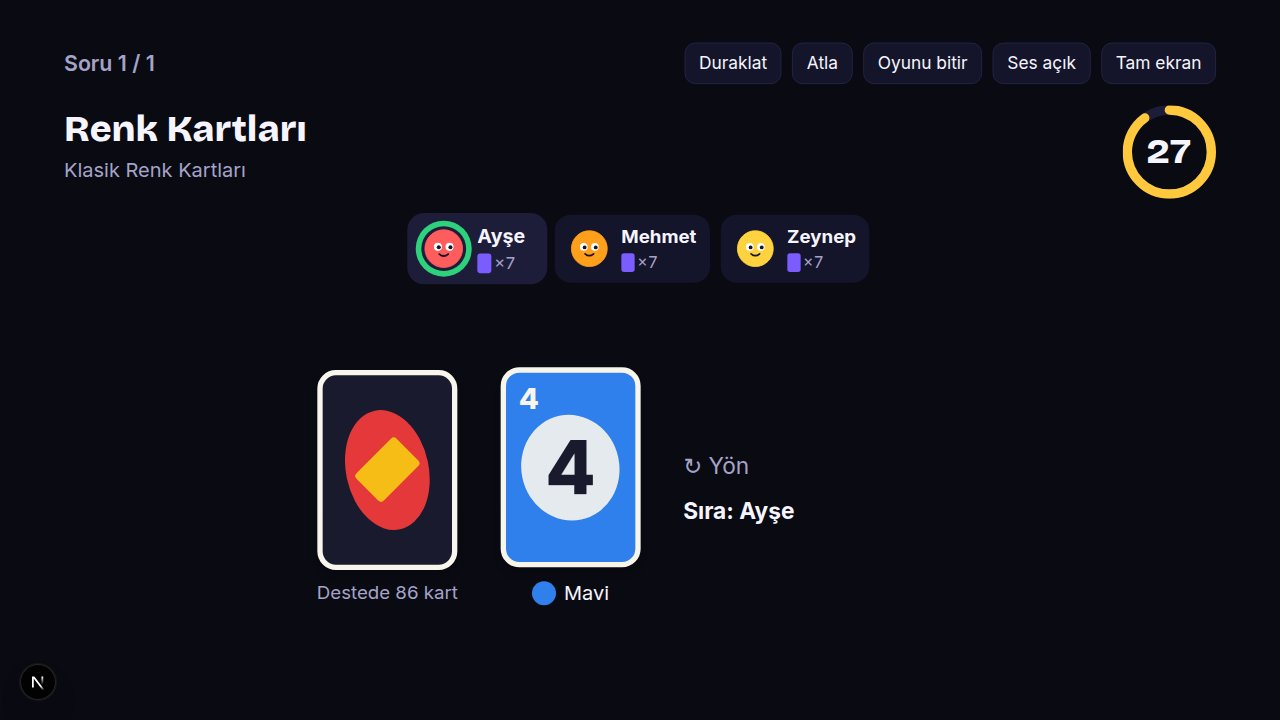
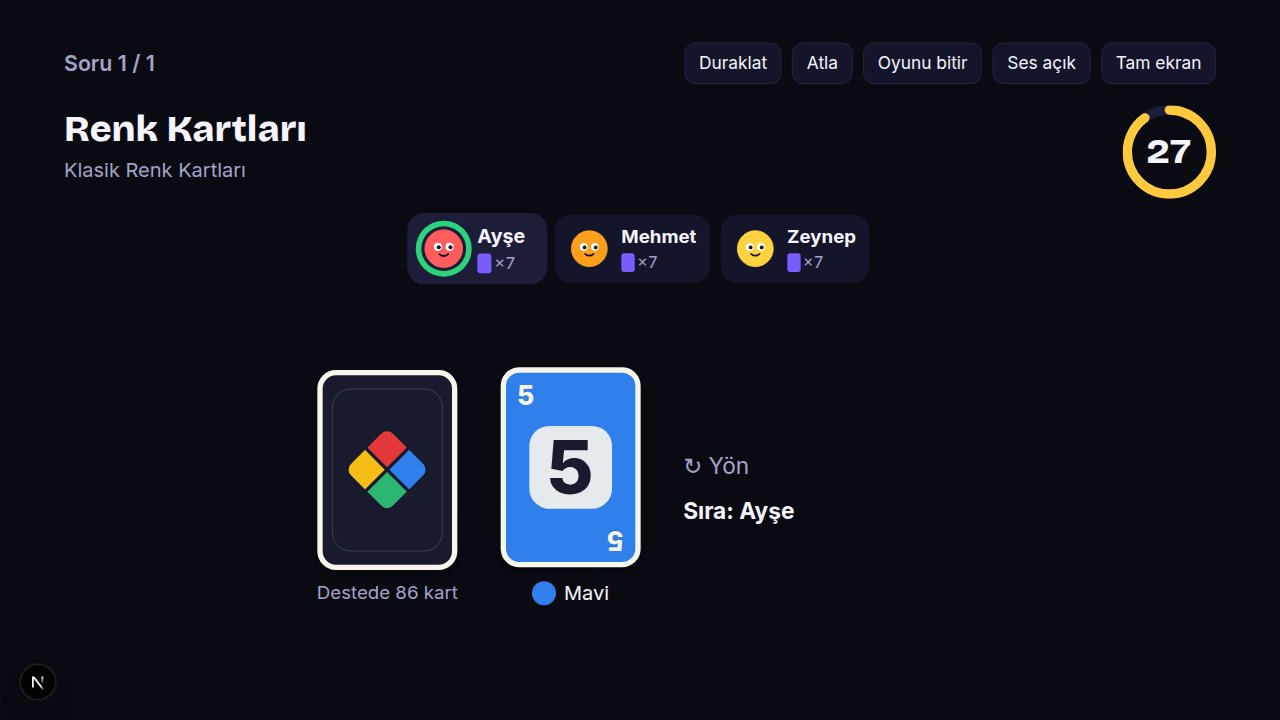
feat(uno): original card face and back
The tilted oval on the face and the red oval on the back resembled UNO's trade dress. The
face now has an upright rounded square and the symbol in two corners; wild cards show the
four colours behind a dark square; the back is a four-colour diamond.

Claude-Session: https://claude.ai/code/session_01Ecsfhe42MgdagjhKsvf37q

Changed region(s): [[0.4062, 0.5194, 0.5, 0.7333], [0.25, 0.55, 0.3438, 0.7333], [0.4688, 0.7333, 0.5, 0.7639]]

diff --git a/packages/games/uno/src/card.tsx b/packages/games/uno/src/card.tsx
@@ -39,7 +39,22 @@ export function cardSymbol(card: UnoCard): string {
   }
 }
 
-/** An original card face: colour, a tilted oval, the symbol in the middle and the corner. */
+/** The four colours as a 2×2 grid of squares (wild cards, the card back). */
+function ColorTiles({ className }: { className: string }) {
+  return (
+    <span className={`grid grid-cols-2 overflow-hidden ${className}`}>
+      <span className="bg-uno-red" />
+      <span className="bg-uno-blue" />
+      <span className="bg-uno-yellow" />
+      <span className="bg-uno-green" />
+    </span>
+  );
+}
+
+/**
+ * An original card face: colour, an upright rounded square holding the symbol, and the
+ * symbol again in two corners. Wild cards show the four colours behind a dark square.
+ */
 export function UnoCardFace({ card, size }: { card: UnoCard; size: CardSize }) {
   const symbol = cardSymbol(card);
   return (
@@ -50,37 +65,32 @@ export function UnoCardFace({ card, size }: { card: UnoCard; size: CardSize }) {
       data-color={card.color ?? 'wild'}
       data-kind={card.kind}
     >
-      {!card.color && (
-        <span className="absolute inset-[18%] grid -rotate-12 grid-cols-2 overflow-hidden rounded-[50%]">
-          <span className="bg-uno-red" />
-          <span className="bg-uno-blue" />
-          <span className="bg-uno-yellow" />
-          <span className="bg-uno-green" />
-        </span>
-      )}
-      {card.color && (
-        <span className="bg-card-face/90 absolute inset-x-[12%] inset-y-[22%] -rotate-12 rounded-[50%]" />
-      )}
+      {!card.color && <ColorTiles className="absolute inset-0" />}
       <span
-        className={`relative leading-none ${card.color ? 'text-card-ink' : 'text-card-face'} [text-shadow:0_2px_0_rgb(0_0_0/0.15)]`}
+        className={`relative grid aspect-square w-[64%] place-items-center rounded-[24%] leading-none ${
+          card.color ? 'bg-card-face/90 text-card-ink' : 'bg-card-ink text-card-face'
+        }`}
       >
         {symbol}
       </span>
-      <span className="text-card-face absolute top-[6%] left-[10%] text-[0.4em] leading-none">
+      <span className="text-card-face absolute top-[5%] left-[9%] text-[0.36em] leading-none [text-shadow:0_1px_0_rgb(0_0_0/0.25)]">
+        {symbol}
+      </span>
+      <span className="text-card-face absolute right-[9%] bottom-[5%] rotate-180 text-[0.36em] leading-none [text-shadow:0_1px_0_rgb(0_0_0/0.25)]">
         {symbol}
       </span>
     </span>
   );
 }
 
-/** The back of a card (draw pile, other players' hands). */
+/** The back of a card (draw pile, other players' hands): the four colours as a diamond. */
 export function UnoCardBack({ size }: { size: CardSize }) {
   return (
     <span
       className={`border-card-face bg-card-ink relative grid shrink-0 place-items-center shadow-lg ${SIZE[size]}`}
     >
-      <span className="bg-uno-red absolute inset-[18%] -rotate-12 rounded-[50%]" />
-      <span className="bg-uno-yellow relative size-[30%] rotate-45 rounded-md" />
+      <span className="border-card-face/25 absolute inset-[7%] rounded-[inherit] border" />
+      <ColorTiles className="relative aspect-square w-[46%] rotate-45 gap-[6%] rounded-[14%]" />
     </span>
   );
 }

diff --git a/PROGRESS.md b/PROGRESS.md
@@ -32,6 +32,9 @@ Projenin ilerleme kaydı. Kapsamın tek doğru kaynağı [docs/SPEC.md](docs/SPE
   değişti; `gameType` kimlikleri, paket adları (`@loudroom/game-uno`, `game-kizma-birader`) ve
   kod içi adlar aynı kaldı (veritabanı ve kayıtlı paketler etkilenmez). Aşağıdaki faz kayıtları
   o günkü adlarla bırakıldı.
+- **Kart tasarımı:** Renk Kartları'nın eğik ovalli ön yüzü ve kırmızı ovalli arka yüzü UNO'ya
+  benziyordu. Ön yüz artık dik, yuvarlatılmış bir kare ve iki köşede sembol; joker dört renk
+  karenin önünde koyu bir kare; arka yüz dört renkli bir elmas.
 - Mevcut bir veritabanında seed yeniden çalışınca örnek paket ve içerik adları güncellenir.
 
 ---
